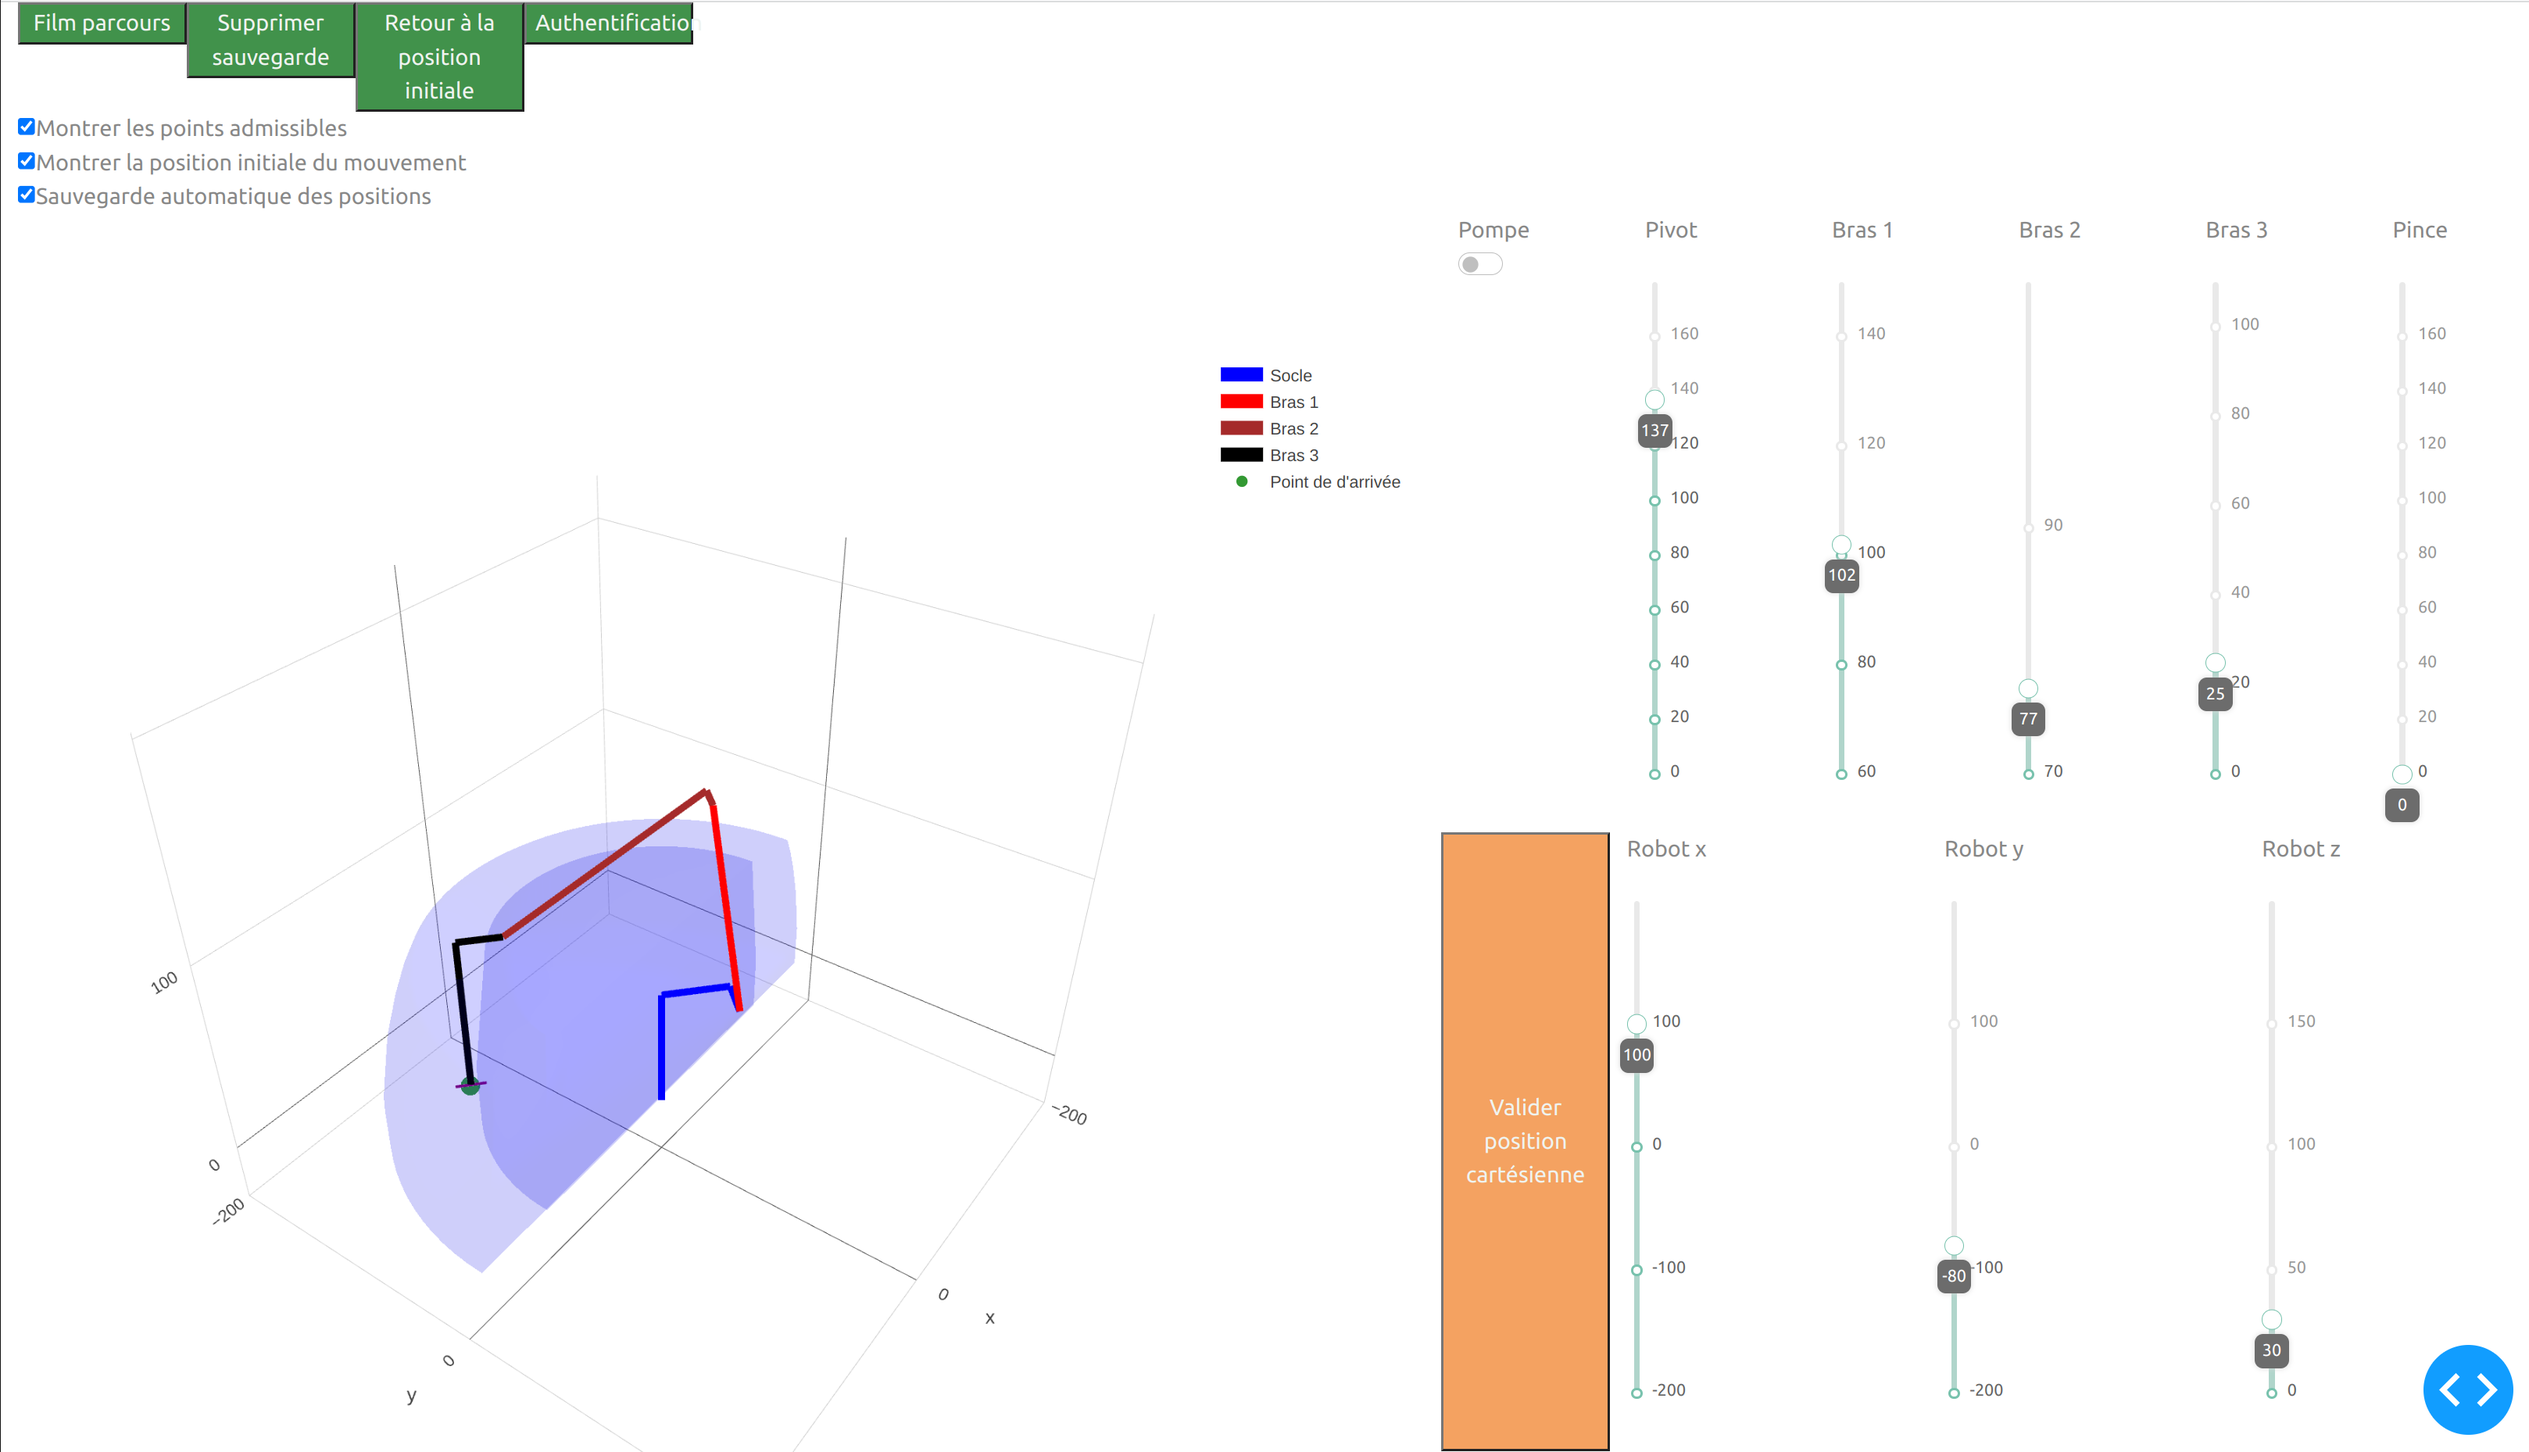
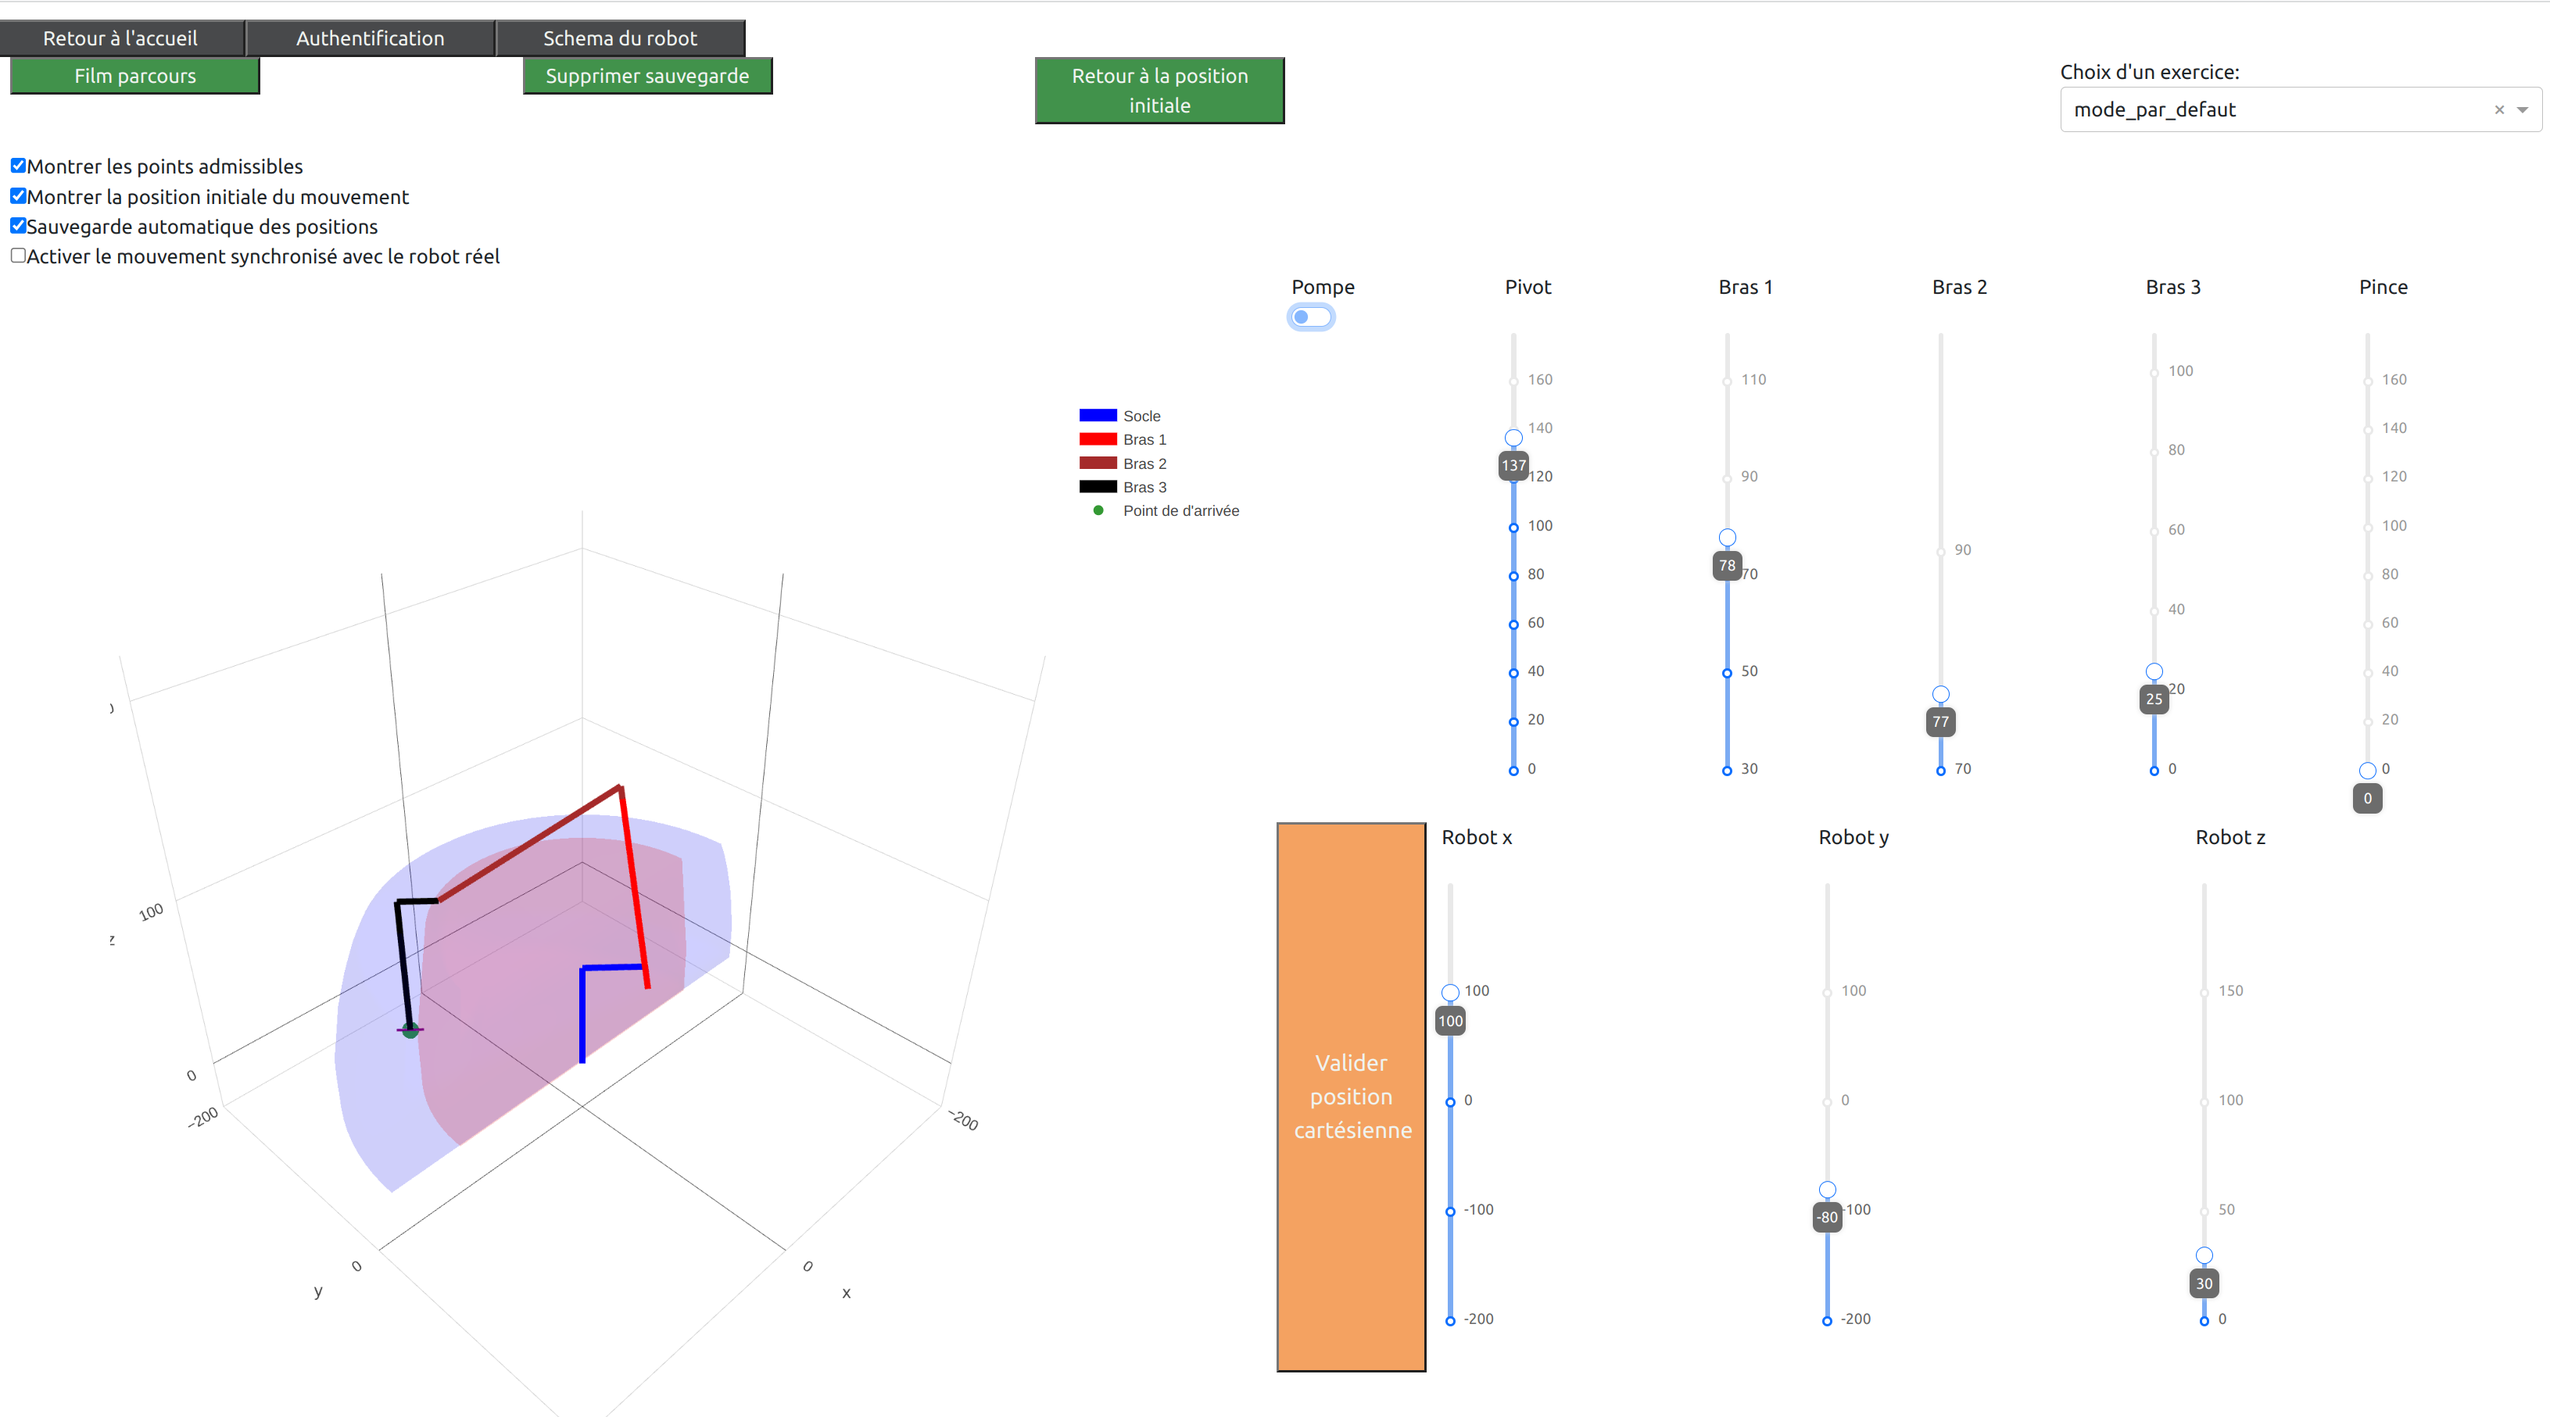
doc

diff --git a/docs/source/presentation_interface/eleve/bras_mouvement.rst b/docs/source/presentation_interface/eleve/bras_mouvement.rst
@@ -1,3 +1,15 @@
+.. raw:: html
+
+    <style> .red {color:red} </style>
+
+.. role:: red
+
+.. raw:: html
+
+    <style> .blue {color:blue} </style>
+
+.. role:: blue
+
 Bouger le bras robotisé
 =======================
 
@@ -5,9 +17,9 @@ Bouger le bras robotisé
 
 Il est possible de bouger le bras en adoptant deux différentes stratégies.
 
-1. En agissant directement sur les différents moteurs controlant les mouvements du bras robot. Pour cela, il suffit de modifier les sliders *pivot*, *bras 1*, *bras 2*, *bras 3* ou *pince*. Les sliders représentent les valeurs des angles à transmettre au robot pour mettre en action le moteur correspondant. La définition de ces angles est visible en cliquant sur le bouton **Schéma du Robot** situé tout en haut de l'interface. Après le mouvement de chaque slider, le mouvement du robot virtuel est directement acutalisé.
+1. En agissant directement sur les différents moteurs controlant les mouvements du bras robot (voir :red:`la zone rouge` sur l'image en bas de page). Pour cela, il suffit de modifier les sliders *pivot*, *bras 1*, *bras 2*, *bras 3* ou *pince*. Les sliders représentent les valeurs des angles à transmettre au robot pour mettre en action le moteur correspondant. La définition de ces angles est visible en cliquant sur le bouton **Schéma du Robot** situé tout en haut de l'interface. Après le mouvement de chaque slider, le mouvement du robot virtuel est directement acutalisé.
 
-2. En faisant bouger les sliders *Robot x*, *Robot y* et *Robot z*. Ces sliders encodent la position de la pince du robot dans le repère cartésien orthonormé centré à la base du robot. Lorsque l'utilisateur décide de bouge un ou plusieurs de ces sliders, la position du robot virtuel n'est pas automatiquement actualisé. L'utilisateur voit alors bouger un point (appelé **point d'arrivée**) dans l'espace. Ce point se voit alors doté d'une certaine couleur:
+2. En faisant bouger les sliders *Robot x*, *Robot y* et *Robot z* (voir :blue:`la zone bleue` sur l'image en bas de page). Ces sliders encodent la position de la pince du robot dans le repère cartésien orthonormé centré à la base du robot. Lorsque l'utilisateur décide de bouge un ou plusieurs de ces sliders, la position du robot virtuel n'est pas automatiquement actualisé. L'utilisateur voit alors bouger un point (appelé **point d'arrivée**) dans l'espace. Ce point se voit alors doté d'une certaine couleur:
 
 - le point d'arrivée apparaît vert si le point se situe dans une zone de l'espace que le robot peut atteindre en ayant la ventouse en position verticale (sans quoi la position n'est pas considérée comme **admissible**).
 
@@ -15,3 +27,7 @@ Il est possible de bouger le bras en adoptant deux différentes stratégies.
 
 Une fois le point d'arrivée défini, l'utilisateur peut cliquer sur le bouton **Valider la position cartésienne**. Si le point d'arrivée était **admissible**, un calcul est automatiquement effectué permettant de placer le robot virtuel au point d'arrivé avec la ventouse placée verticalement. Notez que les sliders *pivot*, *bras 1*, ... sont automatiques actualisés pour correspondre à la nouvelle position du robot.
 
+
+
+.. image:: ../../_static/images/bras_mouvement.png
+   :width: 1000px

diff --git a/docs/source/presentation_interface/eleve/exercices.rst b/docs/source/presentation_interface/eleve/exercices.rst
@@ -1,10 +1,16 @@
 Résoudre un exercice
 ====================
 
-Il est possible de charger un exercice préalablement défini via le menu déroulant situé dans le coin supérieur droit de l'interface. En chargeant un exercice, l'utilisateur voit apparaître un environnement pour le robot, i.e. des pièces (cylindres ou rectangles) préalablement définis et qui sont associés à des positions d'arrivée. L'objectif est alors d'utiliser le robot pour emmener chaque pièce à la position d'arrivée qui lui est associée. Cette tâche peut s'avérer plus ou moins complexe suivant les aides auxquelles le créateur de l'exercice à autoriser l'accès. Voir l':doc:`../enseignant/index` pour plus de détails.
+Il est possible de charger un exercice préalablement défini via le menu déroulant situé dans le coin supérieur droit de l'interface. En chargeant un exercice, l'utilisateur voit apparaître un environnement pour le robot, i.e. des pièces (cylindres ou rectangles) préalablement définies et qui sont associées à des positions d'arrivée. L'objectif est alors d'utiliser le robot pour emmener chaque pièce à la position d'arrivée qui lui est associée. Cette tâche peut s'avérer plus ou moins complexe suivant les aides auxquelles le créateur de l'exercice à autoriser l'accès. Voir l':doc:`../enseignant/index` pour plus de détails.
 
-Quand l'utilisateur pense avoir résolu l'exercice et qu'il a donc sauvegardé les différents étapes des mouvements du bras permettant cette résolution (voir la section :doc:`./bras_mouvement`), il peut appuyer sur le bouton **Film parcours**. Le séquence de mouvements du robot sauvegardée va alors être jouée. Celle-ci va permettre de faire bouger les pièces présentes si les mouvements du robot programmés le permettent. L'interface permet à l'utilisateur de vérifier la faisabilité du scénario joué. En effet, un message d'erreur sera affiché si
+Quand l'utilisateur pense avoir résolu l'exercice et qu'il a donc sauvegardé les différents étapes des mouvements du bras permettant cette résolution (voir la section :doc:`./bras_mouvement`), il peut appuyer sur le bouton **Film parcours**. La séquence de mouvements du robot sauvegardée va alors être jouée. Celle-ci va permettre de faire bouger les pièces présentes si les mouvements du robot programmés le permettent. L'interface permet à l'utilisateur de vérifier la faisabilité du scénario joué. En effet, un message d'erreur sera affiché si
 
 1. deux pièces se percutent lors du scénario,
 
 2. une pièce est lachée alors que la ventouse n'est pas en position verticale (la pièce n'est donc pas lachée correctement).
+
+
+La figure ci-dessous montre les différentes étapes d'un scénario permettant d'emmener la pièce d'un exercice (en bleu) à sa position finale (en jaune). Le cone noir présent sur la portion finale du bras robot indique que la pompe de la ventouse est activée.
+
+.. image:: ../../_static/images/steps_exo.png
+   :width: 1000px

diff --git a/docs/source/presentation_interface/eleve/index.rst b/docs/source/presentation_interface/eleve/index.rst
@@ -5,6 +5,34 @@ Interface Eleve
 L'interface *Elève* est le coeur du projet Bras LJV. Via cet interface, un utilisateur peut expérimenter des mouvements du robot virtuel (voir comment :doc:`./bras_mouvement`), résoudre des exercices prédéfinis (voir l':doc:`../enseignant/index`), associer tous ou certaines des mouvements commandés via l'interface au robot réel (voir les :doc:`./options_affichage`), ...
 
 
+.. image:: ../../_static/images/interface.png
+   :width: 1000px
+
+
+Les éléments principaux actionnables ou activables sur l'interface sont les suivants:
+
+
+
+
+- **Authentification** (*Bouton*): Permet de s'authentifier pour l'accès à l'interface Eleve ou à l':doc:`../enseignant/index`. Un identifiant et un mot de passe sont requis pour l'accès à la plateforme Enseignant.
+
+- **Schéma du robot** (*Bouton*): Permet de visualiser un schéma du bras robot (et de comprendre en particulier la définition des différents angles qui caractérisent sa position).
+
+- **Film parcours** (*Bouton*): Permet de jouer le film de toutes la séquence des mouvements du robot qui a été sauvegardée.
+
+- **Supprimer la sauvegarde** (*Bouton*): Ce bouton permet de supprimer la séquence des positions du robot qui aura été préalablement sauvegardée.
+
+- **Retour à la position initiale** (*Bouton*): Une position initiale a été définie par défaut pour le robot virtuel. Appuyer sur ce bouton permet d'envoyer le robot virtuel à cette position.
+
+- **Choix d'un exercice** (*Menu déroulant*): Permet de sélectionner l'un des exercices (et les pièces qui lui sont associées). Par défaut, aucun exercice n'est chargé. Pour plus de détails, voir :doc:`./exercices`.
+
+- **Options d'affichage** (*Cases à cocher*): L'interface permet d'activer ou pas certaines options et nous renvoyons à la section :doc:`./options_affichage` pour plus de détails.
+
+- **Mouvements du robot** (*Sliders*): Des sliders permettent de bouger le robot (voir :doc:`./bras_mouvement`).
+
+
+Nous renvoyons au sections ci-dessous pour une description plus précise des fonctionnalités de la plateforme.
+
 
 .. toctree::
     :maxdepth: 1

diff --git a/docs/source/presentation_interface/eleve/options_affichage.rst b/docs/source/presentation_interface/eleve/options_affichage.rst
@@ -1,10 +1,17 @@
-.. _option-affichage:
-
-
 Options d'affichage
 ===================
 
-L'utilisateur peut activer ou désactiver certaines options de l'interface virtuelle. Il peut modifier quand il le souhaite ces options en cochant ou décochant les *Checkboxes* situées dans le coin supérieur gauche de son écran. Ci-dessous, nous fournissons une description de chaque option:
+L'utilisateur peut activer ou désactiver certaines options de l'interface virtuelle. Il peut modifier quand il le souhaite ces options en cochant ou décochant les *Checkboxes* situées dans le coin supérieur gauche de son écran. La zone rouge marquée par une flèche sur la figure ci-dessous montre la position de ces cases à cocher sur l'interface.
+
+
+.. image:: ../../_static/images/options_affichage.png
+   :width: 1000px
+
+
+
+
+
+Ci-dessous, nous fournissons une description de chaque option:
 
 1. **Montrer les points admissibles**
 
@@ -21,6 +28,12 @@ Quand cette option est cochée, l'interface virtuelle permet la visualisation si
 - la position du robot virtuel avec des traits pleinement opaques,
 
 - la position initiale du robot pour le scénario de mouvements du robot étant en cours de sauvegarde. Autrement dit, cette position initiale du robot correspond à la première position du robot virtuel sauvegardée. Cette position apparaît à l'écran avec des traits moins opaques. Ainsi, quand l'utilisateur appuye sur le bouton **Supprimer sauvegarde**, seul le robot virtuel est visible à l'écran car toutes les positions précédemment enregistrées sont oubliées.
+
+La figure suivante présente un exemple de l'affichage de la position initiale d'un scénario.
+
+
+.. image:: ../../_static/images/ghost.png
+   :width: 700px
 
 
 3. **Sauvegarde automatique des positions**
